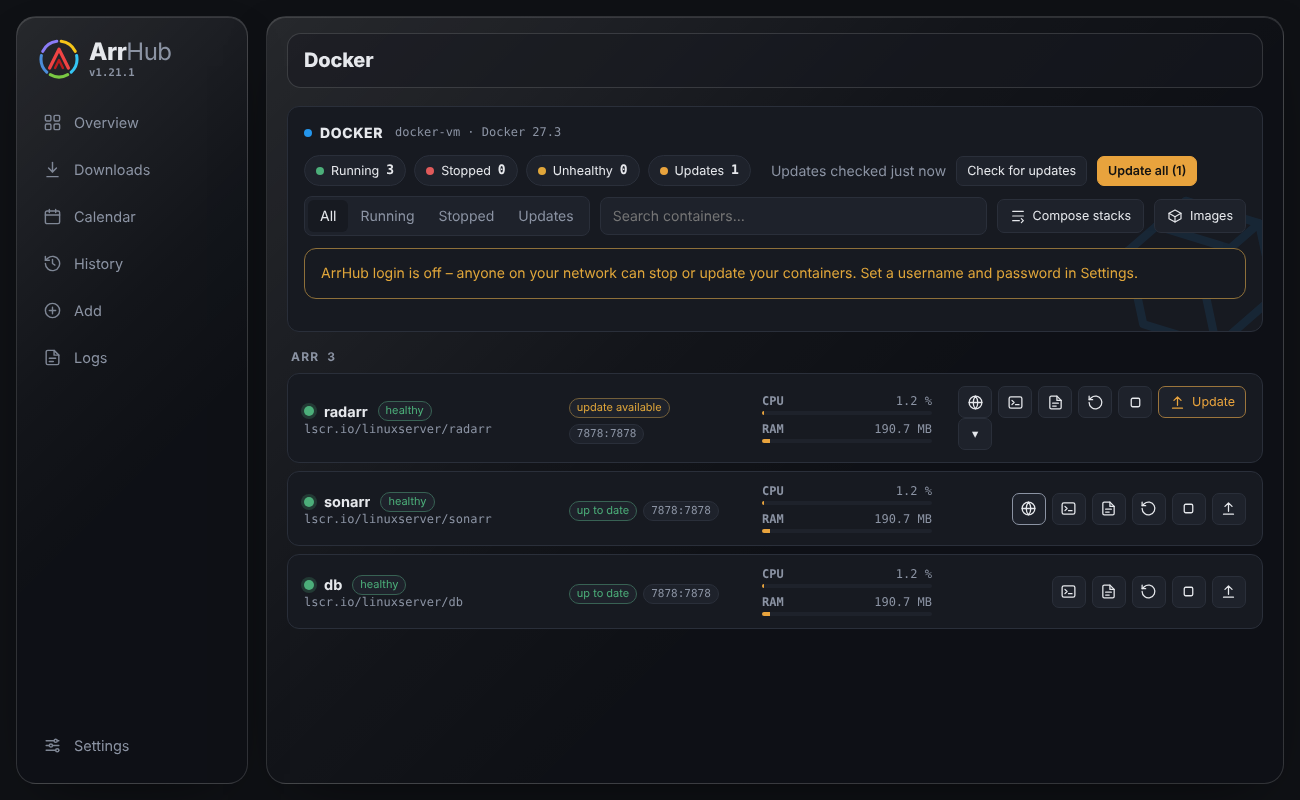
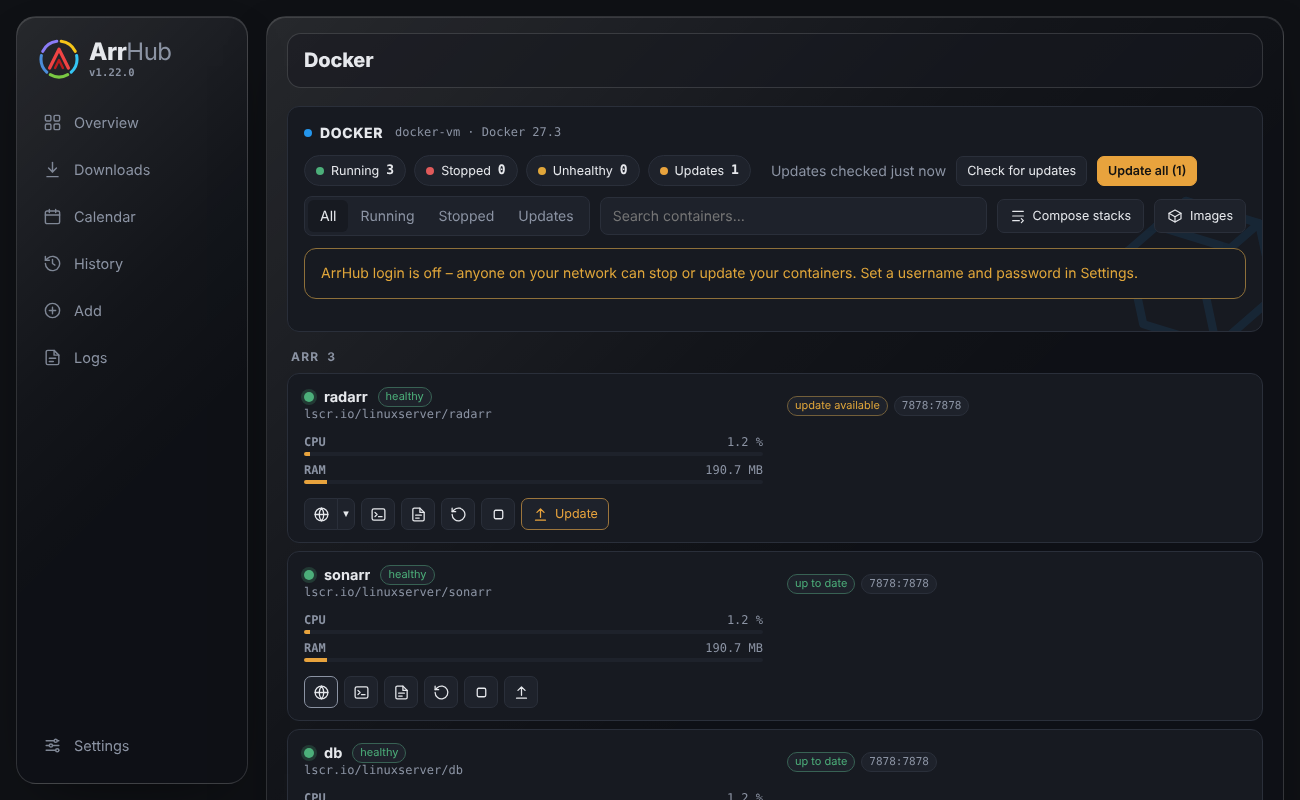
Docker rows: align CPU/RAM graphs, address menu on top of the side menu; v1.22.1 (#5)
Claude-Session: https://claude.ai/code/session_019WLh2Y8yqGFGWjjMcprLgk

diff --git a/public/app.js b/public/app.js
@@ -669,14 +669,29 @@ function dkJob(c) {
 }
 // container web pages always open in a new browser tab; the best address on the 🌐 button, the others in a small menu
 const fillHost = u => u.replace('{host}', location.hostname);
+const dkWebA = (l, cls, inner) => `<a class="${cls}" href="${esc(fillHost(l.url))}" target="_blank" rel="noopener noreferrer" title="${esc(t('dk.open.web') + ' – ' + l.label)}">${inner}</a>`;
 function dkWeb(c) {
   if (!c.web?.length) return '';
-  const a = (l, cls, inner) => `<a class="${cls}" href="${esc(fillHost(l.url))}" target="_blank" rel="noopener noreferrer" title="${esc(t('dk.open.web') + ' – ' + l.label)}">${inner}</a>`;
-  const main = a(c.web[0], 'btn ib', DK_ICONS.web);
+  const main = dkWebA(c.web[0], 'btn ib', DK_ICONS.web);
   if (c.web.length < 2) return main;
-  return `<span class="dkweb">${main}<details class="dkwebm"><summary class="btn ib" title="${esc(t('dk.open.webMore'))}" aria-label="${esc(t('dk.open.webMore'))}">▾</summary>
-    <div>${c.web.map(l => a(l, '', esc(l.label))).join('')}</div></details></span>`;
+  return `<span class="dkweb">${main}<button class="btn ib dkwebmore" data-dk="webmore" title="${esc(t('dk.open.webMore'))}" aria-label="${esc(t('dk.open.webMore'))}" aria-haspopup="menu">▾</button></span>`;
 }
+// the address menu lives on <body>, so it is drawn above the side menu and is not clipped by the row
+function dkWebMenu(c, btn) {
+  const m = $('#dkWebMenu');
+  if (!m.classList.contains('hidden') && m.dataset.id === c.id) return dkWebMenuClose();
+  m.dataset.id = c.id;
+  m.innerHTML = c.web.map(l => dkWebA(l, '', esc(l.label))).join('');
+  m.classList.remove('hidden');
+  const r = (btn.closest('.dkweb') || btn).getBoundingClientRect(), w = m.offsetWidth, h = m.offsetHeight;
+  const left = Math.max(8, Math.min(r.left, innerWidth - w - 8));
+  const top = r.bottom + 4 + h > innerHeight - 8 ? Math.max(8, r.top - 4 - h) : r.bottom + 4;
+  m.style.left = left + 'px'; m.style.top = top + 'px';
+}
+function dkWebMenuClose() { const m = $('#dkWebMenu'); m.classList.add('hidden'); m.dataset.id = ''; }
+document.addEventListener('click', e => { if (!e.target.closest('[data-dk="webmore"]') && (!e.target.closest('#dkWebMenu') || e.target.closest('a'))) dkWebMenuClose(); });
+addEventListener('scroll', dkWebMenuClose, true); addEventListener('resize', dkWebMenuClose);
+document.addEventListener('keydown', e => { if (e.key === 'Escape') dkWebMenuClose(); });
 function dkRow(c) {
   const run = c.state === 'running', busy = dk.jobs[c.name]?.state === 'running';
   const st = c.stats;
@@ -723,9 +738,9 @@ function renderDocker() {
   const groups = {};
   for (const c of rows) (groups[c.project || ''] ||= []).push(c);
   // keep open "log" details open across refreshes
-  const open = [...document.querySelectorAll('.dkrow details[open]')].map(d => [d.closest('.dkrow').dataset.name, d.className]);
+  const open = new Set([...document.querySelectorAll('.dkrow details[open]')].map(d => d.closest('.dkrow').dataset.name));
   $('#dkList').innerHTML = Object.entries(groups).map(([g, cs]) => `<div class="dkgrp"><h3>${esc(g || t('dk.noProject'))} <span>${cs.length}</span></h3>${cs.map(dkRow).join('')}</div>`).join('');
-  open.forEach(([n, cls]) => document.querySelector(`.dkrow[data-name="${CSS.escape(n)}"] details${cls ? '.' + cls : ':not([class])'}`)?.setAttribute('open', ''));
+  open.forEach(n => document.querySelector(`.dkrow[data-name="${CSS.escape(n)}"] details`)?.setAttribute('open', ''));
 }
 async function dkUpdate(c) {
   try {
@@ -744,6 +759,7 @@ $('#dkList').addEventListener('click', async e => {
   const b = e.target.closest('[data-dk]'); if (!b) return;
   const row = b.closest('.dkrow'), c = dk.list.find(x => x.id === row.dataset.id); if (!c) return;
   const a = b.dataset.dk;
+  if (a === 'webmore') return dkWebMenu(c, b);
   if (a === 'logs') return dkOpenLogs(c);
   if (a === 'term') return openTerm(c);
   if (a === 'update') { if (confirm(t('dk.confirmUpdate', { name: c.name }))) dkUpdate(c); return; }
@@ -753,8 +769,6 @@ $('#dkList').addEventListener('click', async e => {
   catch (err) { toast(t('c.error', { msg: err.message })); }
   loadDocker();
 });
-// close the 🌐 address menu after a pick or a click elsewhere
-document.addEventListener('click', e => document.querySelectorAll('details.dkwebm[open]').forEach(d => { if (!d.contains(e.target) || e.target.closest('a')) d.removeAttribute('open'); }));
 $('#dkFilter').onclick = e => { const b = e.target.closest('button'); if (!b) return; dk.filter = b.dataset.f; [...$('#dkFilter').children].forEach(x => x.classList.toggle('on', x === b)); renderDocker(); };
 $('#dkSearch').oninput = e => { dk.q = e.target.value.trim(); renderDocker(); };
 $('#dkCheck').onclick = async () => { try { await api('docker/check', {}); dk.checking = true; renderDocker(); setTimeout(loadDocker, 2500); setTimeout(loadDocker, 8000); } catch (e) { toast(t('c.error', { msg: e.message })); } };

diff --git a/public/index.html b/public/index.html
@@ -218,7 +218,7 @@ body.has-bg .card,body.has-bg .res,body.has-bg .notice{background:color-mix(in s
 .dkchip b{font-family:var(--mono);font-size:13px}
 .dkgrp{margin-top:16px}
 .dkgrp>h3{margin:0 0 8px 4px;font-size:12px;letter-spacing:.1em;text-transform:uppercase;color:var(--muted);display:flex;gap:8px;align-items:center}
-.dkrow{display:grid;grid-template-columns:minmax(150px,1.4fr) minmax(130px,1fr) 170px auto;gap:14px;align-items:center;padding:12px 16px;margin-bottom:8px}
+.dkrow{display:grid;grid-template-columns:minmax(150px,1.4fr) minmax(130px,1fr) 170px 330px;gap:14px 24px;align-items:center;padding:12px 16px;margin-bottom:8px}
 .dkrow>div{min-width:0}
 .dkrow .nm{display:flex;align-items:center;gap:10px;min-width:0}
 .dkrow .nm b{font-size:14.5px;white-space:nowrap;overflow:hidden;text-overflow:ellipsis}
@@ -234,9 +234,10 @@ body.has-bg .card,body.has-bg .res,body.has-bg .notice{background:color-mix(in s
 .dkrow .acts .ib svg{width:17px;height:17px;fill:none;stroke:currentColor;stroke-width:1.8;stroke-linecap:round;stroke-linejoin:round}
 .dkrow .acts a.ib{text-decoration:none;color:inherit}
 .dkweb{display:inline-flex;position:relative}.dkweb>a.ib{border-top-right-radius:0;border-bottom-right-radius:0}
-.dkwebm summary{list-style:none;width:18px!important;border-top-left-radius:0;border-bottom-left-radius:0;margin-left:-1px;font-size:11px;cursor:pointer}.dkwebm summary::-webkit-details-marker{display:none}
-.dkwebm>div{position:absolute;background:var(--panel);border:1px solid var(--line);box-shadow:0 8px 24px rgb(0 0 0/.3);right:0;top:calc(100% + 4px);z-index:5;min-width:200px;padding:6px;display:flex;flex-direction:column;border-radius:10px}
-.dkwebm>div a{padding:7px 10px;border-radius:7px;text-decoration:none;color:var(--text);font-size:13px;white-space:nowrap}.dkwebm>div a:hover{background:var(--line)}
+.dkrow .acts .dkwebmore{width:18px;border-top-left-radius:0;border-bottom-left-radius:0;margin-left:-1px;font-size:11px}
+#dkWebMenu{position:fixed;z-index:45;background:var(--panel);border:1px solid var(--line);box-shadow:0 8px 24px rgb(0 0 0/.3);min-width:200px;max-width:calc(100vw - 16px);padding:6px;display:flex;flex-direction:column;border-radius:10px}
+#dkWebMenu.hidden{display:none}
+#dkWebMenu a{padding:7px 10px;border-radius:7px;text-decoration:none;color:var(--text);font-size:13px;white-space:nowrap;overflow:hidden;text-overflow:ellipsis}#dkWebMenu a:hover{background:var(--line)}
 .dkrow .acts .ib.upd{width:auto;padding:0 10px;display:inline-flex;gap:6px;align-items:center}
 .ovl{position:fixed;inset:0;z-index:40;background:rgb(0 0 0/.5);display:flex;align-items:center;justify-content:center;padding:18px}
 .ovl.hidden{display:none}
@@ -309,7 +310,7 @@ body.has-bg .card,body.has-bg .res,body.has-bg .notice{background:color-mix(in s
 .logrow.lv-stderr .lm{color:color-mix(in srgb,var(--err) 80%,var(--text))}
 @media(max-width:700px){.ovl{padding:6px}.ovw{padding:8px}}
 /* sized by the list's own width (the menu and glass frame take part of the window), so the action buttons never spill out of the row */
-@container(max-width:960px){.dkrow{grid-template-columns:1fr 1fr}.dkrow .acts{grid-column:1/-1;justify-content:flex-start}}
+@container(max-width:1000px){.dkrow{grid-template-columns:1fr 1fr}.dkrow .acts{grid-column:1/-1;justify-content:flex-start}}
 @container(max-width:520px){.dkrow{grid-template-columns:1fr}}
 .pager{display:flex;align-items:center;gap:14px;flex-wrap:wrap;margin-top:16px;padding:10px 14px;background:var(--panel);border:1px solid var(--line);border-radius:12px;font-size:13px}
 .pager .sp{flex:1}
@@ -804,6 +805,7 @@ body.card-icons .card.wide[data-icon]::after{height:clamp(110px,110%,260px);opac
     <div class="imlist" id="imList"></div>
   </div>
 </div>
+<div id="dkWebMenu" class="hidden" role="menu"></div>
 <div id="termModal" class="ovl hidden" role="dialog" aria-modal="true">
   <div class="ovw glass">
     <div class="ovh"><b id="termTitle"></b><span class="muted" id="termState"></span><span class="sp"></span>

diff --git a/.github/releases/v1.22.1.md b/.github/releases/v1.22.1.md
@@ -1,0 +1,3 @@
+## Fixes
+- **CPU/RAM graphs in Docker rows line up again.** The action-button column had an automatic width, so every row sized its columns differently and the graphs started at a different place in each row. The column is fixed again (wide enough for all buttons), so the graphs sit in one straight column, with more space between them and the buttons.
+- **The ▾ address menu is no longer hidden behind the side menu.** It used to open inside the row and could slide under the ArrHub menu on narrower windows. It now opens on top of everything, starts at the 🌐 button, stays inside the window (opens upwards near the bottom) and closes on a click elsewhere, scroll or Esc.
